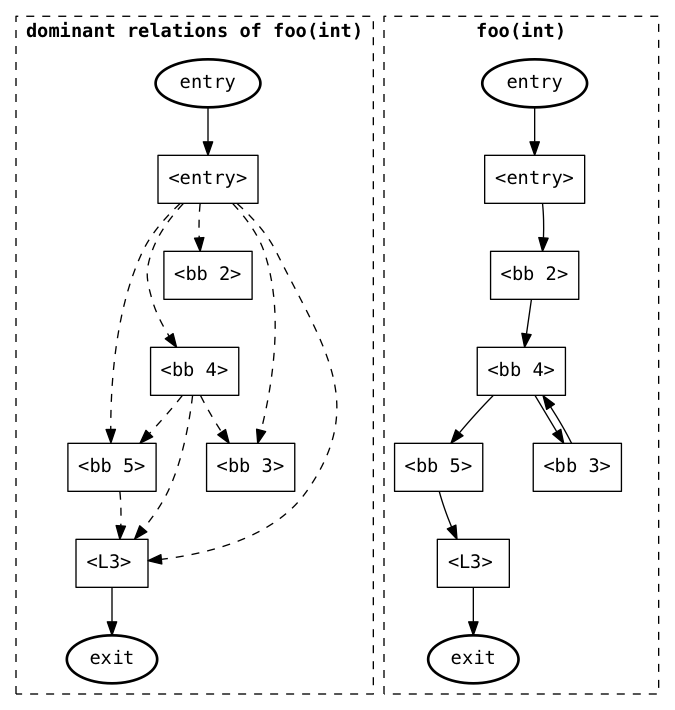
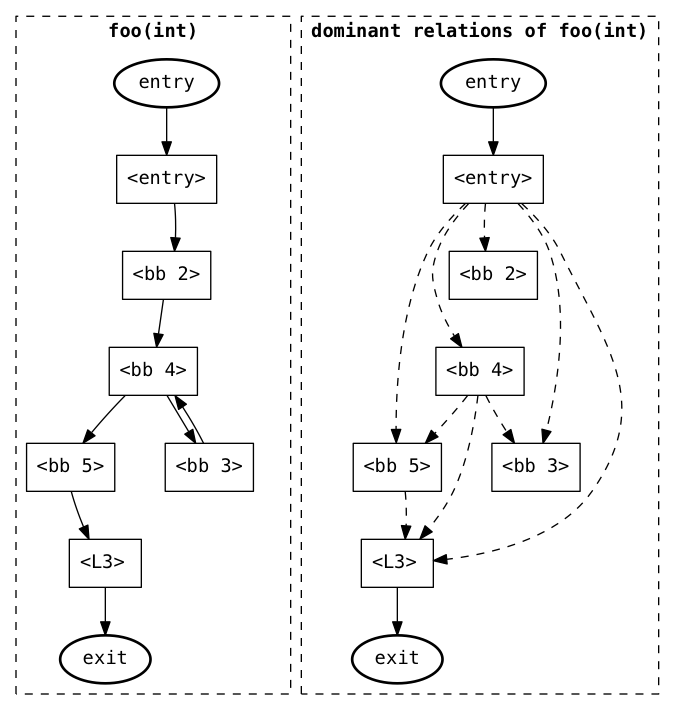
add returnBlock

diff --git a/RangeAnalyser.py b/RangeAnalyser.py
@@ -47,16 +47,16 @@ class RangeAnalyser(object):
         return self.__functionNames
     
     def analyse(self, func: Union[str, Function], args: Sequence[ValueRange], depth: int = 0) -> ValueRange:
-        def execute(stmt: str) -> ValueRange:
+        def execute(stmt: str, env: str) -> ValueRange:
             constraint: Dict[str, Union[str, List[str]]] = func.constraints[stmt]
             resRange: ValueRange = EmptySet
             if constraint['type'] == 'funcCall':
                 print('>' * (4 * depth + 3), 'call', self.functions[constraint['op']].declaration)
                 resRange: ValueRange = self.analyse(func = constraint['op'],
-                                                    args = list(attributes[arg]['range'] for arg in constraint['args']),
+                                                    args = list(attributes[arg]['range'][env] for arg in constraint['args']),
                                                     depth = depth + 1)
             elif constraint['type'] != 'condition':
-                arg1Range: ValueRange = attributes[constraint['arg1']]['range']
+                arg1Range: ValueRange = attributes[constraint['arg1']]['range'][env]
                 if constraint['type'] == 'assignment':
                     resRange: ValueRange = arg1Range
                 elif constraint['type'] == 'monocular':
@@ -67,7 +67,7 @@ class RangeAnalyser(object):
                     elif constraint['op'] == '(float)':
                         resRange: ValueRange = arg1Range.asDtype(dtype = float)
                 else:
-                    arg2Range: ValueRange = attributes[constraint['arg2']]['range']
+                    arg2Range: ValueRange = attributes[constraint['arg2']]['range'][env]
                     if constraint['type'] == 'PHI':
                         resRange: ValueRange = arg1Range.union(other = arg2Range)
                     elif constraint['type'] == 'arithmetic':
@@ -79,27 +79,27 @@ class RangeAnalyser(object):
                             resRange: ValueRange = arg1Range * arg2Range
                         elif constraint['op'] == '/':
                             resRange: ValueRange = arg1Range / arg2Range
-            attributes[constraint['res']]['range']: ValueRange = resRange
+            attributes[constraint['res']]['range'][env]: ValueRange = resRange
             return resRange
         
         def doWidening() -> None:
             for constraint in func.constraints.values():
                 try:
-                    attributes[constraint['res']]: Union[str, ValueRange] = {'type': 'var',
-                                                                             'dtype': None,
-                                                                             'range': EmptySet}
+                    attributes[constraint['res']]: Union[str, Dict[str, ValueRange]] = {'type': 'var',
+                                                                                        'dtype': None,
+                                                                                        'range': {'global': EmptySet}}
                 except KeyError:
                     pass
                 for arg in constraint['args']:
                     if number.fullmatch(string = arg):
                         num: Union[int, float] = (int(arg) if integer.fullmatch(string = arg) else float(arg))
-                        attributes[arg]: Union[str, ValueRange] = {'type': 'num',
-                                                                   'dtype': type(num).__name__,
-                                                                   'range': ValueRange.asValueRange(value = num)}
+                        attributes[arg]: Union[str, Dict[str, ValueRange]] = {'type': 'num',
+                                                                              'dtype': type(num).__name__,
+                                                                              'range': {'global': ValueRange.asValueRange(value = num)}}
                     else:
-                        attributes[arg]: Union[str, ValueRange] = {'type': 'var',
-                                                                   'dtype': None,
-                                                                   'range': EmptySet}
+                        attributes[arg]: Union[str, Dict[str, ValueRange]] = {'type': 'var',
+                                                                              'dtype': None,
+                                                                              'range': {'global': EmptySet}}
             for id, dtype in func.variables.items():
                 for var in attributes.keys():
                     if var.startswith(id):
@@ -109,7 +109,7 @@ class RangeAnalyser(object):
                     if var.startswith(arg):
                         attributes[var]['type']: str = 'arg'
                         attributes[var]['dtype']: str = func.args[arg]
-                        attributes[var]['range']: ValueRange = args[i].asDtype(dtype = attributes[var]['dtype'])
+                        attributes[var]['range']['global']: ValueRange = args[i].asDtype(dtype = attributes[var]['dtype'])
             definitions: Deque[str] = deque(filter(None, func.defOfVariable.values()))
             while len(definitions) > 0:
                 stmt: str = definitions.popleft()
@@ -119,8 +119,8 @@ class RangeAnalyser(object):
                     continue
                 if attributes[var]['type'] != 'var':
                     continue
-                oldRange: ValueRange = attributes[var]['range']
-                newRange: ValueRange = execute(stmt = func.defOfVariable[var])
+                oldRange: ValueRange = attributes[var]['range']['global']
+                newRange: ValueRange = execute(stmt = func.defOfVariable[var], env = 'global')
                 if newRange != oldRange:
                     if newRange.isEmptySet():
                         for arg in func.constraints[stmt]['args']:
@@ -140,8 +140,11 @@ class RangeAnalyser(object):
                                                               dtype = attributes[var]['dtype'])
                         else:
                             newRange: ValueRange = oldRange
-                    attributes[var]['range']: ValueRange = newRange
+                    attributes[var]['range']['global']: ValueRange = newRange
                     definitions.extend(func.useOfVariable[var])
+            for var in attributes.keys():
+                for blockLabel in func.blockLabels:
+                    attributes[var]['range'][blockLabel]: ValueRange = attributes[var]['range']['global']
         
         def doFutureResolution() -> None:
             pass
@@ -161,15 +164,15 @@ class RangeAnalyser(object):
         if func.ret is None:
             print('no return')
             return EmptySet
-        attributes: Dict[str, Dict[str, Union[str, ValueRange]]] = dict()
+        attributes: Dict[str, Dict[str, Union[str, Dict[str, ValueRange]]]] = dict()
         doWidening()
         doFutureResolution()
         doNarrowing()
         for var in sorted(filter(lambda var: attributes[var]['type'] != 'num', attributes.keys()), key = Function.idCompareKey):
-            print('{}{} {}: {}'.format('|   ' * (depth + 1), attributes[var]['dtype'], var, attributes[var]['range']))
+            print('{}{} {}: {}'.format('|   ' * (depth + 1), attributes[var]['dtype'], var, attributes[var]['range']['global']))
         print('{}{} returns {}'.format('|   ' * depth, func.declaration, attributes[func.ret]['range']))
         # print(attributes)
-        return attributes[func.ret]['range']
+        return attributes[func.ret]['range'][func.blockLabels[-1]]
     
     def drawControlFlowGraph(self, file: str = None) -> pgv.AGraph:
         graph: pgv.AGraph = pgv.AGraph(directed = True, strict = True, overlap = False, compound = True, layout = 'dot')
@@ -195,9 +198,8 @@ class RangeAnalyser(object):
             graph.add_node(namespace.format('exit'), label = 'exit', style = 'bold', shape = 'ellipse')
             for block in func.blocks.values():
                 graph.add_node(namespace.format(block.label), label = nodeLabels[block.label], shape = 'box')
-                if re.search('return\s*\w*\s*;', string = block.code) is not None:
-                    graph.add_edge(namespace.format(block.label), namespace.format('exit'))
             graph.add_edge(namespace.format('entry'), namespace.format('<entry>'))
+            graph.add_edge(namespace.format(func.returnBlockLabel), namespace.format('exit'))
             for block, neighbors in func.controlFlow.items():
                 for successor in neighbors['successor']:
                     graph.add_edge(namespace.format(block), namespace.format(successor))
@@ -224,9 +226,8 @@ class RangeAnalyser(object):
                 graph.add_node(namespace.format('exit'), label = 'exit', style = 'bold', shape = 'ellipse')
                 for block in func.blocks.values():
                     graph.add_node(namespace.format(block.label), label = '{}\l'.format(block.label), shape = 'box')
-                    if re.search('return\s*\w*\s*;', string = block.code) is not None:
-                        graph.add_edge(namespace.format(block.label), namespace.format('exit'))
                 graph.add_edge(namespace.format('entry'), namespace.format('<entry>'))
+                graph.add_edge(namespace.format(func.returnBlockLabel), namespace.format('exit'))
                 for label, neighborLabels in func.controlFlow.items():
                     for successorLabel in neighborLabels['successor']:
                         graph.add_edge(namespace.format(label), namespace.format(successorLabel),
@@ -289,8 +290,8 @@ class RangeAnalyser(object):
                         graph.add_edge(namespace.format(arg), namespace.format(stmt))
             for stmt, constraint in func.constraints.items():
                 if constraint['type'] == 'condition':
-                    for flag in ('true', 'false'):
-                        for successor in map(func.blocks.get, constraint['{}List'.format(flag)]):
+                    for flag in ('trueList', 'falseList'):
+                        for successor in map(func.blocks.get, constraint[flag]):
                             for arg in constraint['args']:
                                 if number.fullmatch(string = arg) is not None:
                                     continue

diff --git a/Function.py b/Function.py
@@ -78,15 +78,18 @@ class Function(object):
             self.__bodySplit: List[str] = self.body.splitlines()
             self.__name: str = matcher.group('name').strip()
             self.__args: Dict[str, str] = Function.parseVariableDeclaration(statement = '{},'.format(matcher.group('args')))
-            try:
-                self.__ret: str = re.search('return\s+(?P<ret>\w+)\s*;', string = self.body).group('ret')
-            except AttributeError:
-                self.__ret: str = None
             self.__declaration: str = '{}({})'.format(self.name, ', '.join('{} {}'.format(dtype, var)
                                                                            for var, dtype in self.args.items()))
             self.__prototype: str = '{}({})'.format(self.name, ', '.join(self.args.values()))
             self.__variables: Dict[str, str] = Function.parseVariableDeclaration(statement = code)
             self.__localVariables: Dict[str, str] = Function.parseVariableDeclaration(statement = self.body)
+            try:
+                self.__ret: str = re.search('return\s*(?P<ret>\w*)\s*;', string = self.body).group('ret')
+                if self.__ret == '':
+                    self.__ret: str = None
+            except AttributeError:
+                raise ValueError
+            self.__returnBlockLabel: str = None
             self.__GEN: List[str] = list(self.varsFromArg)
             self.__GEN.extend(Function.parseVariableAssignment(statement = self.body))
             self.__blockLabels: List[str] = None
@@ -134,12 +137,21 @@ class Function(object):
         return self.__args
     
     @property
+    def varsFromArg(self) -> Set[str]:
+        return self.__varsFromArg
+    
+    @property
     def ret(self) -> str:
         return self.__ret
     
     @property
-    def varsFromArg(self) -> Set[str]:
-        return self.__varsFromArg
+    def returnBlockLabel(self) -> str:
+        if self.__returnBlockLabel is None:
+            for block in self.blocks.values():
+                if re.search('return\s*(?P<ret>\w*)\s*;', string = block.code) is not None:
+                    self.__returnBlockLabel: str = block.label
+                    break
+        return self.__returnBlockLabel
     
     @property
     def variables(self) -> Dict[str, str]:
